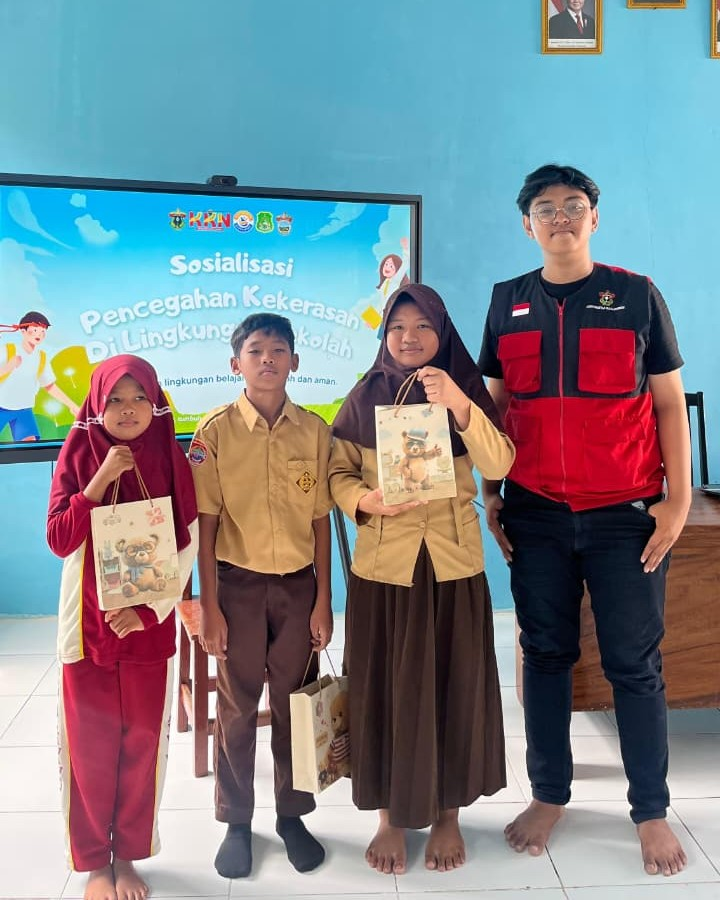
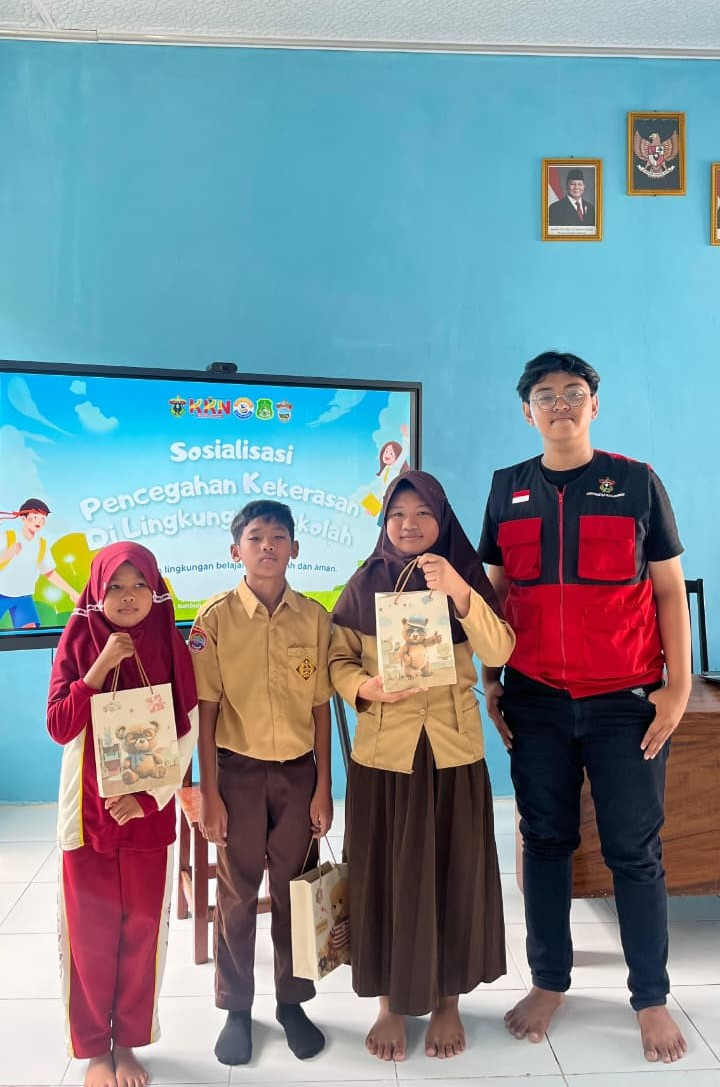
revisi berita

diff --git a/publikasi klp.md b/publikasi klp.md
@@ -1,35 +1,36 @@
-Judul: Sosialisasi dan Paparkan Program Kerja Inovatif di Kelurahan Lawawoi
+Judul: Seminar Hasil Program Kerja di Kelurahan Lawawoi
 Kategori: Pendidikan
 Author: Rahul
 Date: 13 Agustus 2026
 Tags: Pendidikan, KKN, Unhas, Nasional
 
-summary: Mahasiswa KKN-T Inovasi Desa Gelombang 116 Universitas Hasanuddin Sosialisasi dan Paparkan Program Kerja Inovatif di Kelurahan Lawawoi.
+summary: Mahasiswa KKN-T Inovasi Desa Gelombang 116 Universitas Hasanuddin Seminar Hasil Program Kerja di Kelurahan Lawawoi.
 
 Konten:
-Mahasiswa KKN-T Inovasi Desa Gelombang 116 Universitas Hasanuddin Sosialisasi dan Paparkan Program Kerja Inovatif di Kelurahan Lawawoi.
+Mahasiswa KKN-T Inovasi Desa Gelombang 116 Universitas Hasanuddin Seminar Hasil Program Kerja di Kelurahan Lawawoi.
 
 SIDRAP – Mahasiswa Kuliah Kerja Nyata Tematik (KKN-T) Inovasi Desa Gelombang 116 Universitas Hasanuddin (Unhas) sukses menyelenggarakan Seminar Hasil Program Kerja di Kelurahan Lawawoi, Kecamatan Watang Pulu, Kabupaten Sidenreng Rappang (Sidrap).
 Dalam seminar hasil tersebut, mahasiswa memaparkan serangkaian program kerja inovatif dan berkelanjutan yang telah dilaksanakan selama masa pengabdian kepada masyarakat. Seluruh program kerja dikembangkan untuk menjawab kebutuhan masyarakat lokal serta diwujudkan dalam bentuk dokumen luaran (output) konkret berupa buku panduan dan buku saku sebagai pedoman keberlanjutan bagi warga setempat.
 
 Adapun rincian program kerja beserta luarannya meliputi:
- * Pemanfaatan Sekam Padi Menjadi Arang Briket
+ - Pemanfaatan Sekam Padi Menjadi Arang Briket
    Sebagai bentuk inovasi pengolahan limbah hasil penggilingan padi menjadi bahan bakar alternatif bernilai ekonomis, mahasiswa mengedukasi warga mengenai tahapan karbonisasi, pencampuran perekat, pencetakan, hingga pengeringan briket.
-   * Luaran (Output): Buku Panduan Pembuatan Arang Briket Sekam Padi.
- * Pembuatan Peta Administrasi Wilayah Kelurahan Lawawoi
+   - Luaran (Output): Buku Panduan Pembuatan Arang Briket Sekam Padi.
+ - Pembuatan Peta Administrasi Wilayah Kelurahan Lawawoi
    Program ini bertujuan untuk mendukung pemetaan wilayah, tata kelola pemukiman, serta perencanaan pembangunan dan peningkatan pelayanan publik di tingkat kelurahan.
-   * Luaran (Output): Buku Panduan Pemetaan & Atlas Administrasi Kelurahan Lawawoi.
- * Optimalisasi Pemanfaatan Daun Kelor Melalui Inovasi Bedda Tettu
+   - Luaran (Output): Buku Panduan Pemetaan & Atlas Administrasi Kelurahan Lawawoi.
+ - Optimalisasi Pemanfaatan Daun Kelor Melalui Inovasi Bedda Tettu
    Mengangkat kearifan lokal Bugis melalui formulasi produk perawatan kulit berbasis daun kelor guna memberikan nilai tambah ekonomi bagi potensi vegetasi desa.
-   * Luaran (Output): Buku Panduan Formulasi dan Pembuatan Bedda Tettu Tradisional.
- * Revitalisasi Permainan Tradisional Bugis
+   - Luaran (Output): Buku Panduan Formulasi dan Pembuatan Bedda Tettu Tradisional.
+ - Revitalisasi Permainan Tradisional Bugis
    Upaya pelestarian nilai-nilai kebudayaan lokal dan interaksi sosial anak-anak di tengah gempuran arus digitalisasi.
-   * Luaran (Output): Buku Panduan Permainan Tradisional Bugis untuk Generasi Muda.
- * Penyusunan Struktur Alur Pelayanan Administrasi Kantor Kelurahan Lawawoi
+   - Luaran (Output): Buku Panduan Permainan Tradisional Bugis untuk Generasi Muda.
+ - Penyusunan Struktur Alur Pelayanan Administrasi Kantor Kelurahan Lawawoi
    Didesain untuk meningkatkan efektivitas, kejelasan standar operasional, dan transparansi pelayanan publik bagi warga yang mengurus dokumen di kantor kelurahan.
-   * Luaran (Output): Buku Panduan Standar Alur Pelayanan Administrasi Kelurahan.
- * Program Edukasi Lingkungan dan Sosial Sekolah Dasar
+   - Luaran (Output): Buku Panduan Standar Alur Pelayanan Administrasi Kelurahan.
+ - Program Edukasi Lingkungan dan Sosial Sekolah Dasar
    Meliputi dua fokus utama, yakni Edukasi Cinta Laut (mengenal sampah laut dan dampaknya bagi biota laut) serta Sosialisasi Pencegahan Kekerasan di Lingkungan Sekolah Dasar.
-   * Luaran (Output): Buku Saku Edukasi Bahaya Sampah Laut dan Buku Saku Pencegahan Perundungan & Kekerasan di Sekolah.
+   - Luaran (Output): Buku Saku Edukasi Bahaya Sampah Laut dan Buku Saku Pencegahan Perundungan & Kekerasan di Sekolah.
 
 Melalui penyerahan buku panduan dan buku saku dari setiap program kerja, mahasiswa KKN-T Inovasi Desa Gelombang 116 Unhas berharap masyarakat dan pemerintah Kelurahan Lawawoi dapat melanjutkan serta menerapkan ilmu dan inovasi tersebut secara mandiri dan berkelanjutan. Pihak kelurahan beserta warga memberikan apresiasi tinggi atas kontribusi nyata yang diberikan selama pelaksanaan KKN-T.
+
